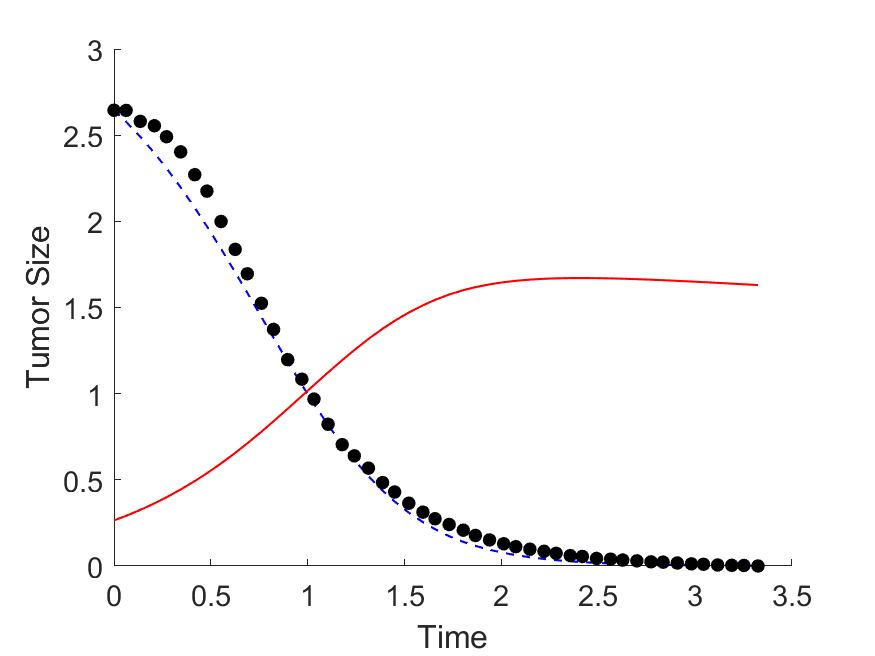
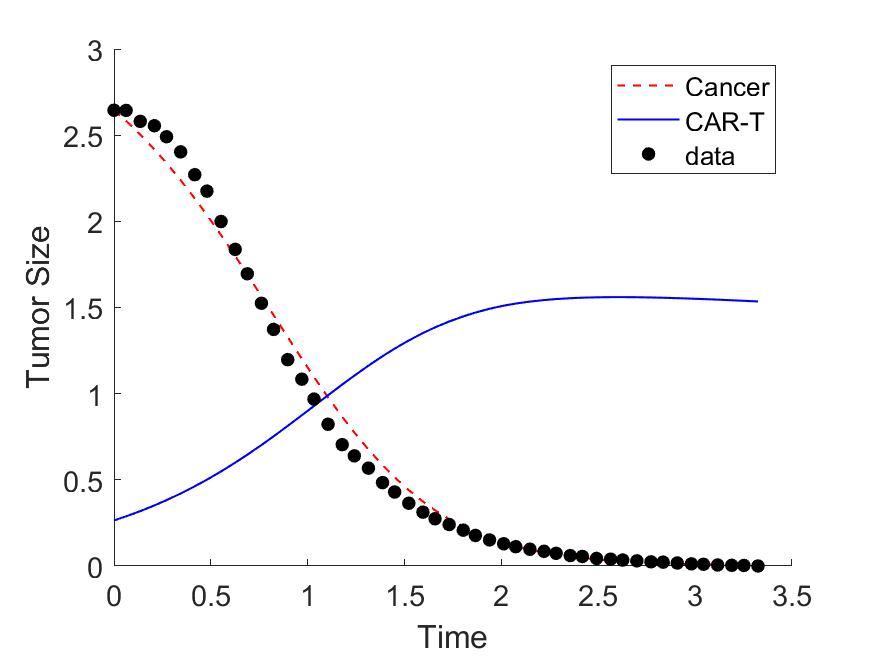
Add files via upload

diff --git a/191126_CART/multiple_binding_solver.m b/191126_CART/multiple_binding_solver.m
@@ -1,22 +1,22 @@
-function multiple_binding_solver(string)%for example, string='H, 1:10, 1'
-[num,txt,raw]=xlsread('fitted params.xlsx');
+function multiple_binding_solver(choice)%for example, choice='H, 1:10, 1'
+[num,txt,raw]=xlsread('fitted params(PBT138, slow).xlsx');
 
-row=find(strcmp(txt,string));
+row=find(strcmp(txt,choice));
 params=num(row,:);
-receptor=string(1);
-ratio=extractBetween(string,' ',',','Boundaries','exclusive');
-if ratio{1}=='1:5'
+receptor=choice(1);
+ratio=extractBetween(choice,' ',',','Boundaries','exclusive');%extract 1:10 out of the choice
+if string(ratio{1})=='1:5'
     CARTnum=5;    
-elseif ratio{1}=='1:10'
+elseif string(ratio{1})=='1:10'
     CARTnum=10;   
-elseif ratio{1}=='1:20'
+elseif string(ratio{1})=='1:20'
     CARTnum=20;
 end
 CARTratio=1/CARTnum;
 read_CARTdata()
-n=str2double(string(end));
+n=str2double(choice(end));  %choose the index of 'H, 1:10, 1', 
 data=selected_cancerdata(n);
 x(1)=data(1);
-x(2)=data(1)/CARTratio;
+x(2)=data(1)*CARTratio;
 x(3:4)=0;
 [t,tumVol] = ode23(@(t,y)two_binding_slow(t,y,param), x, time, params );
